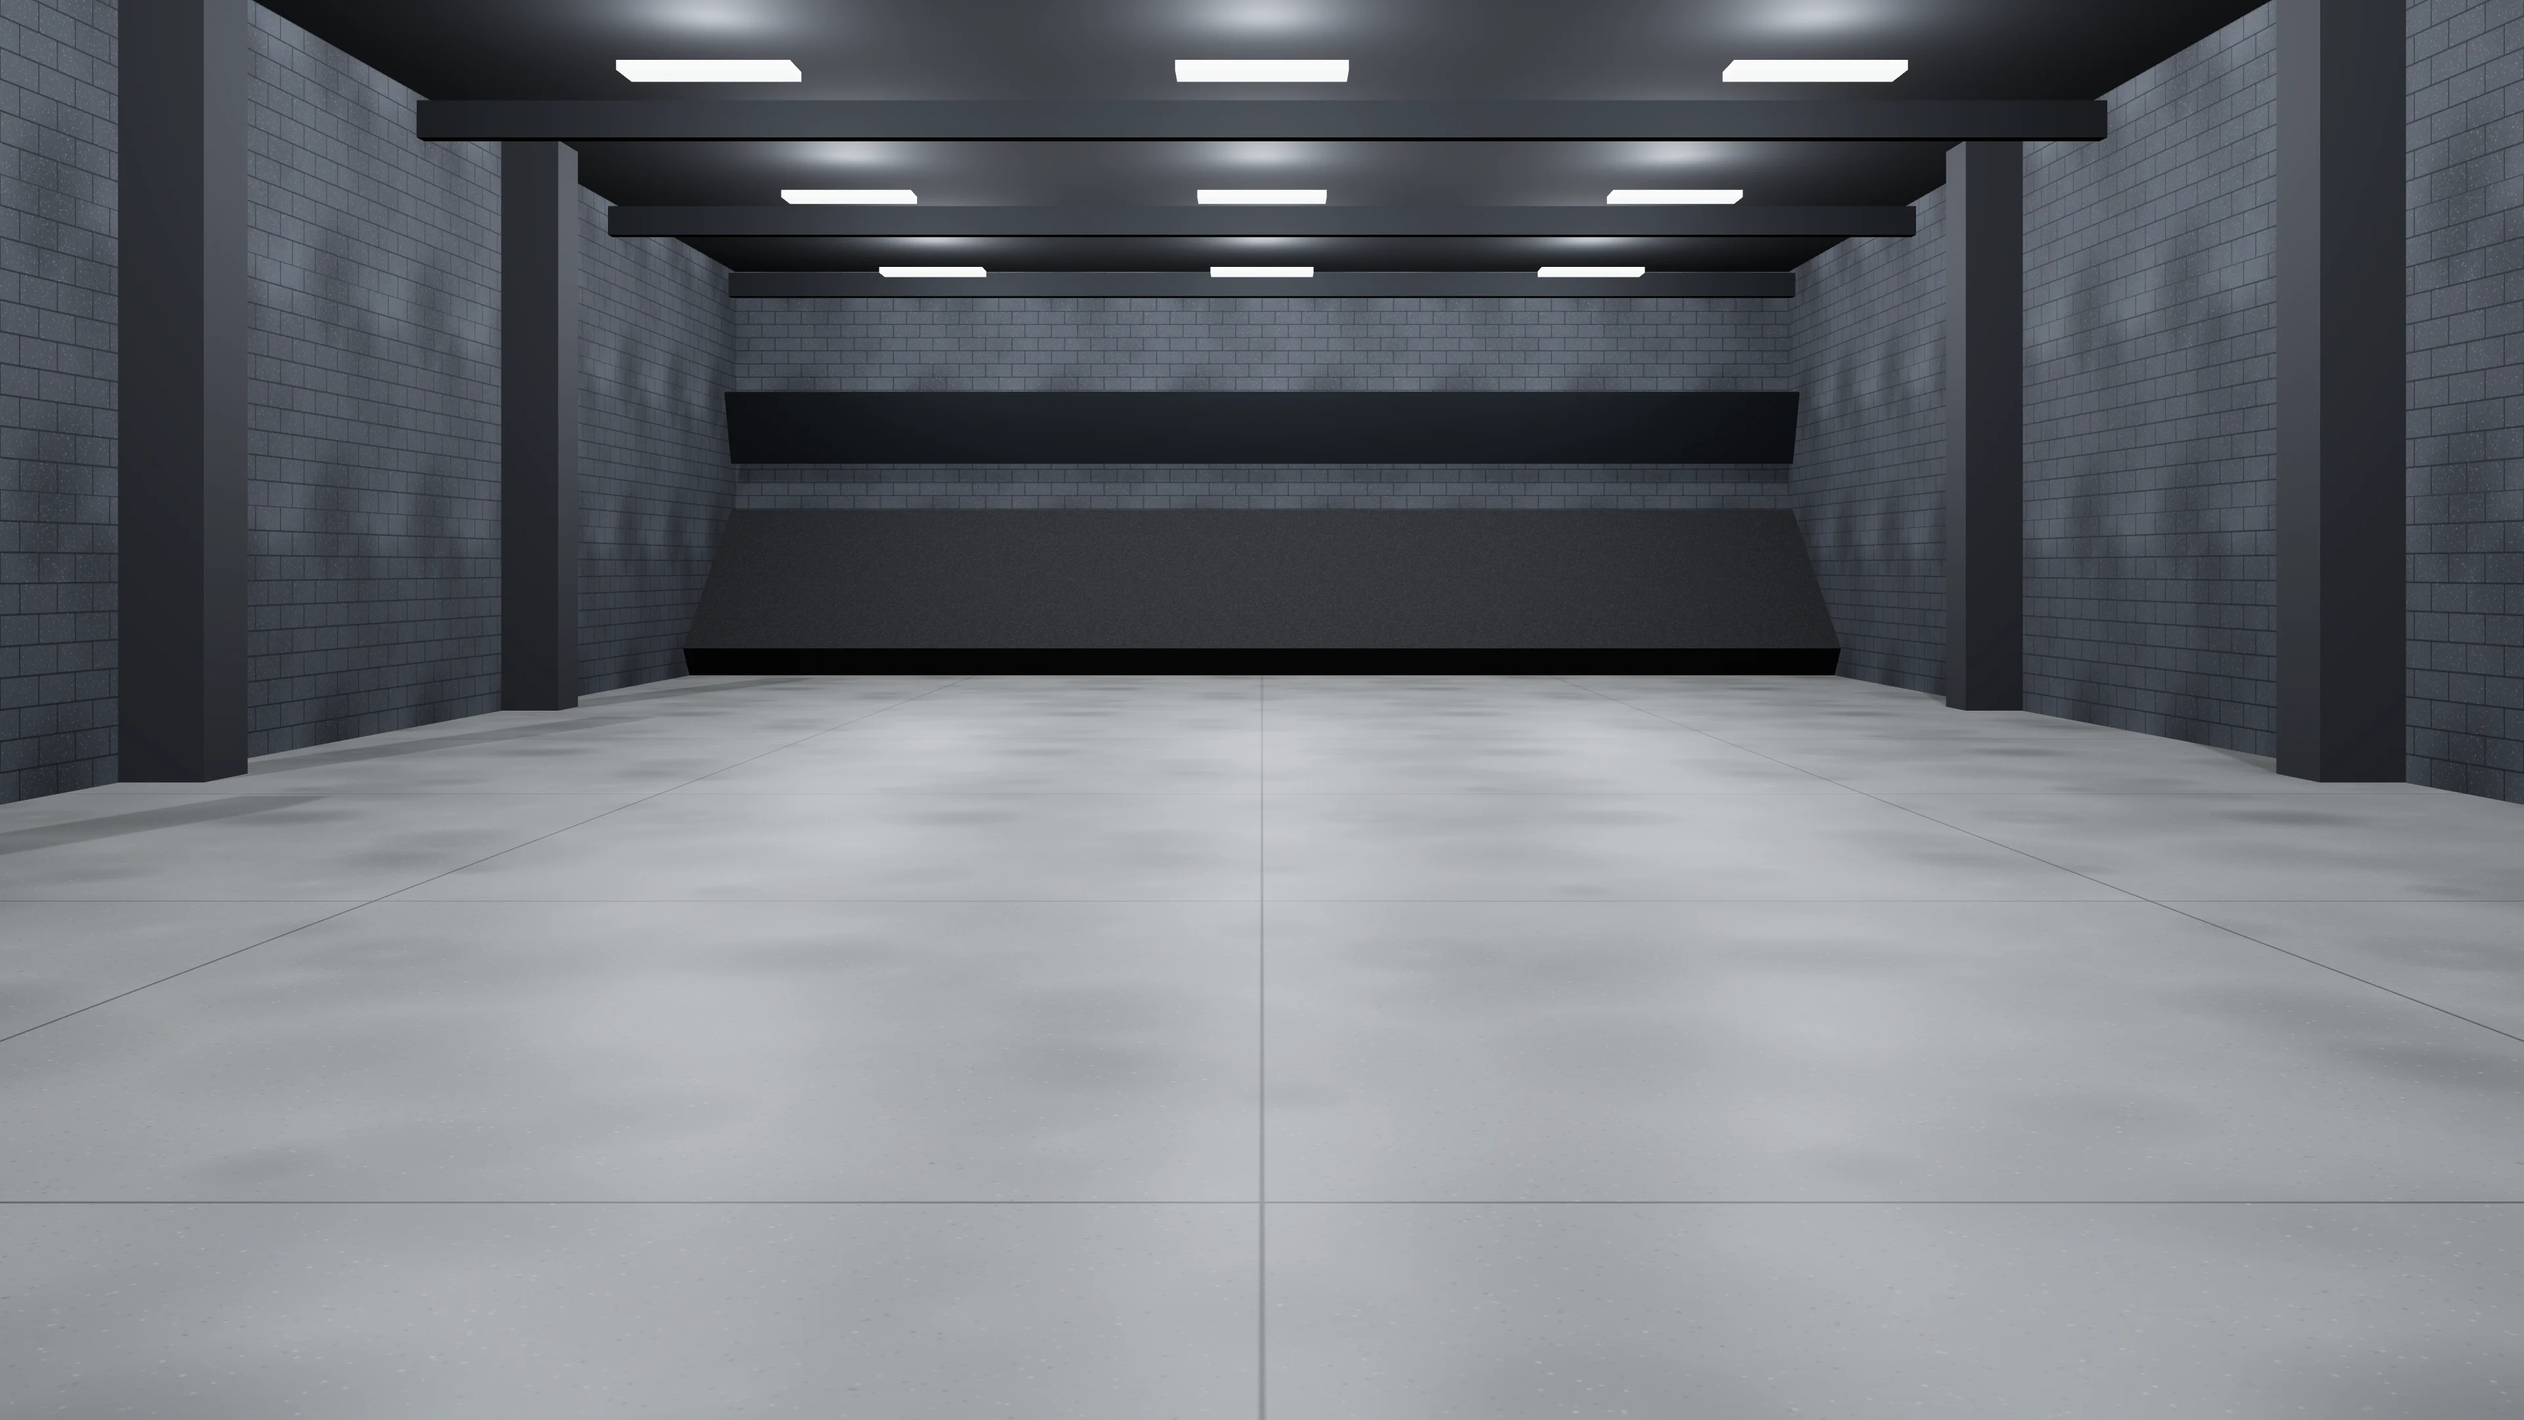
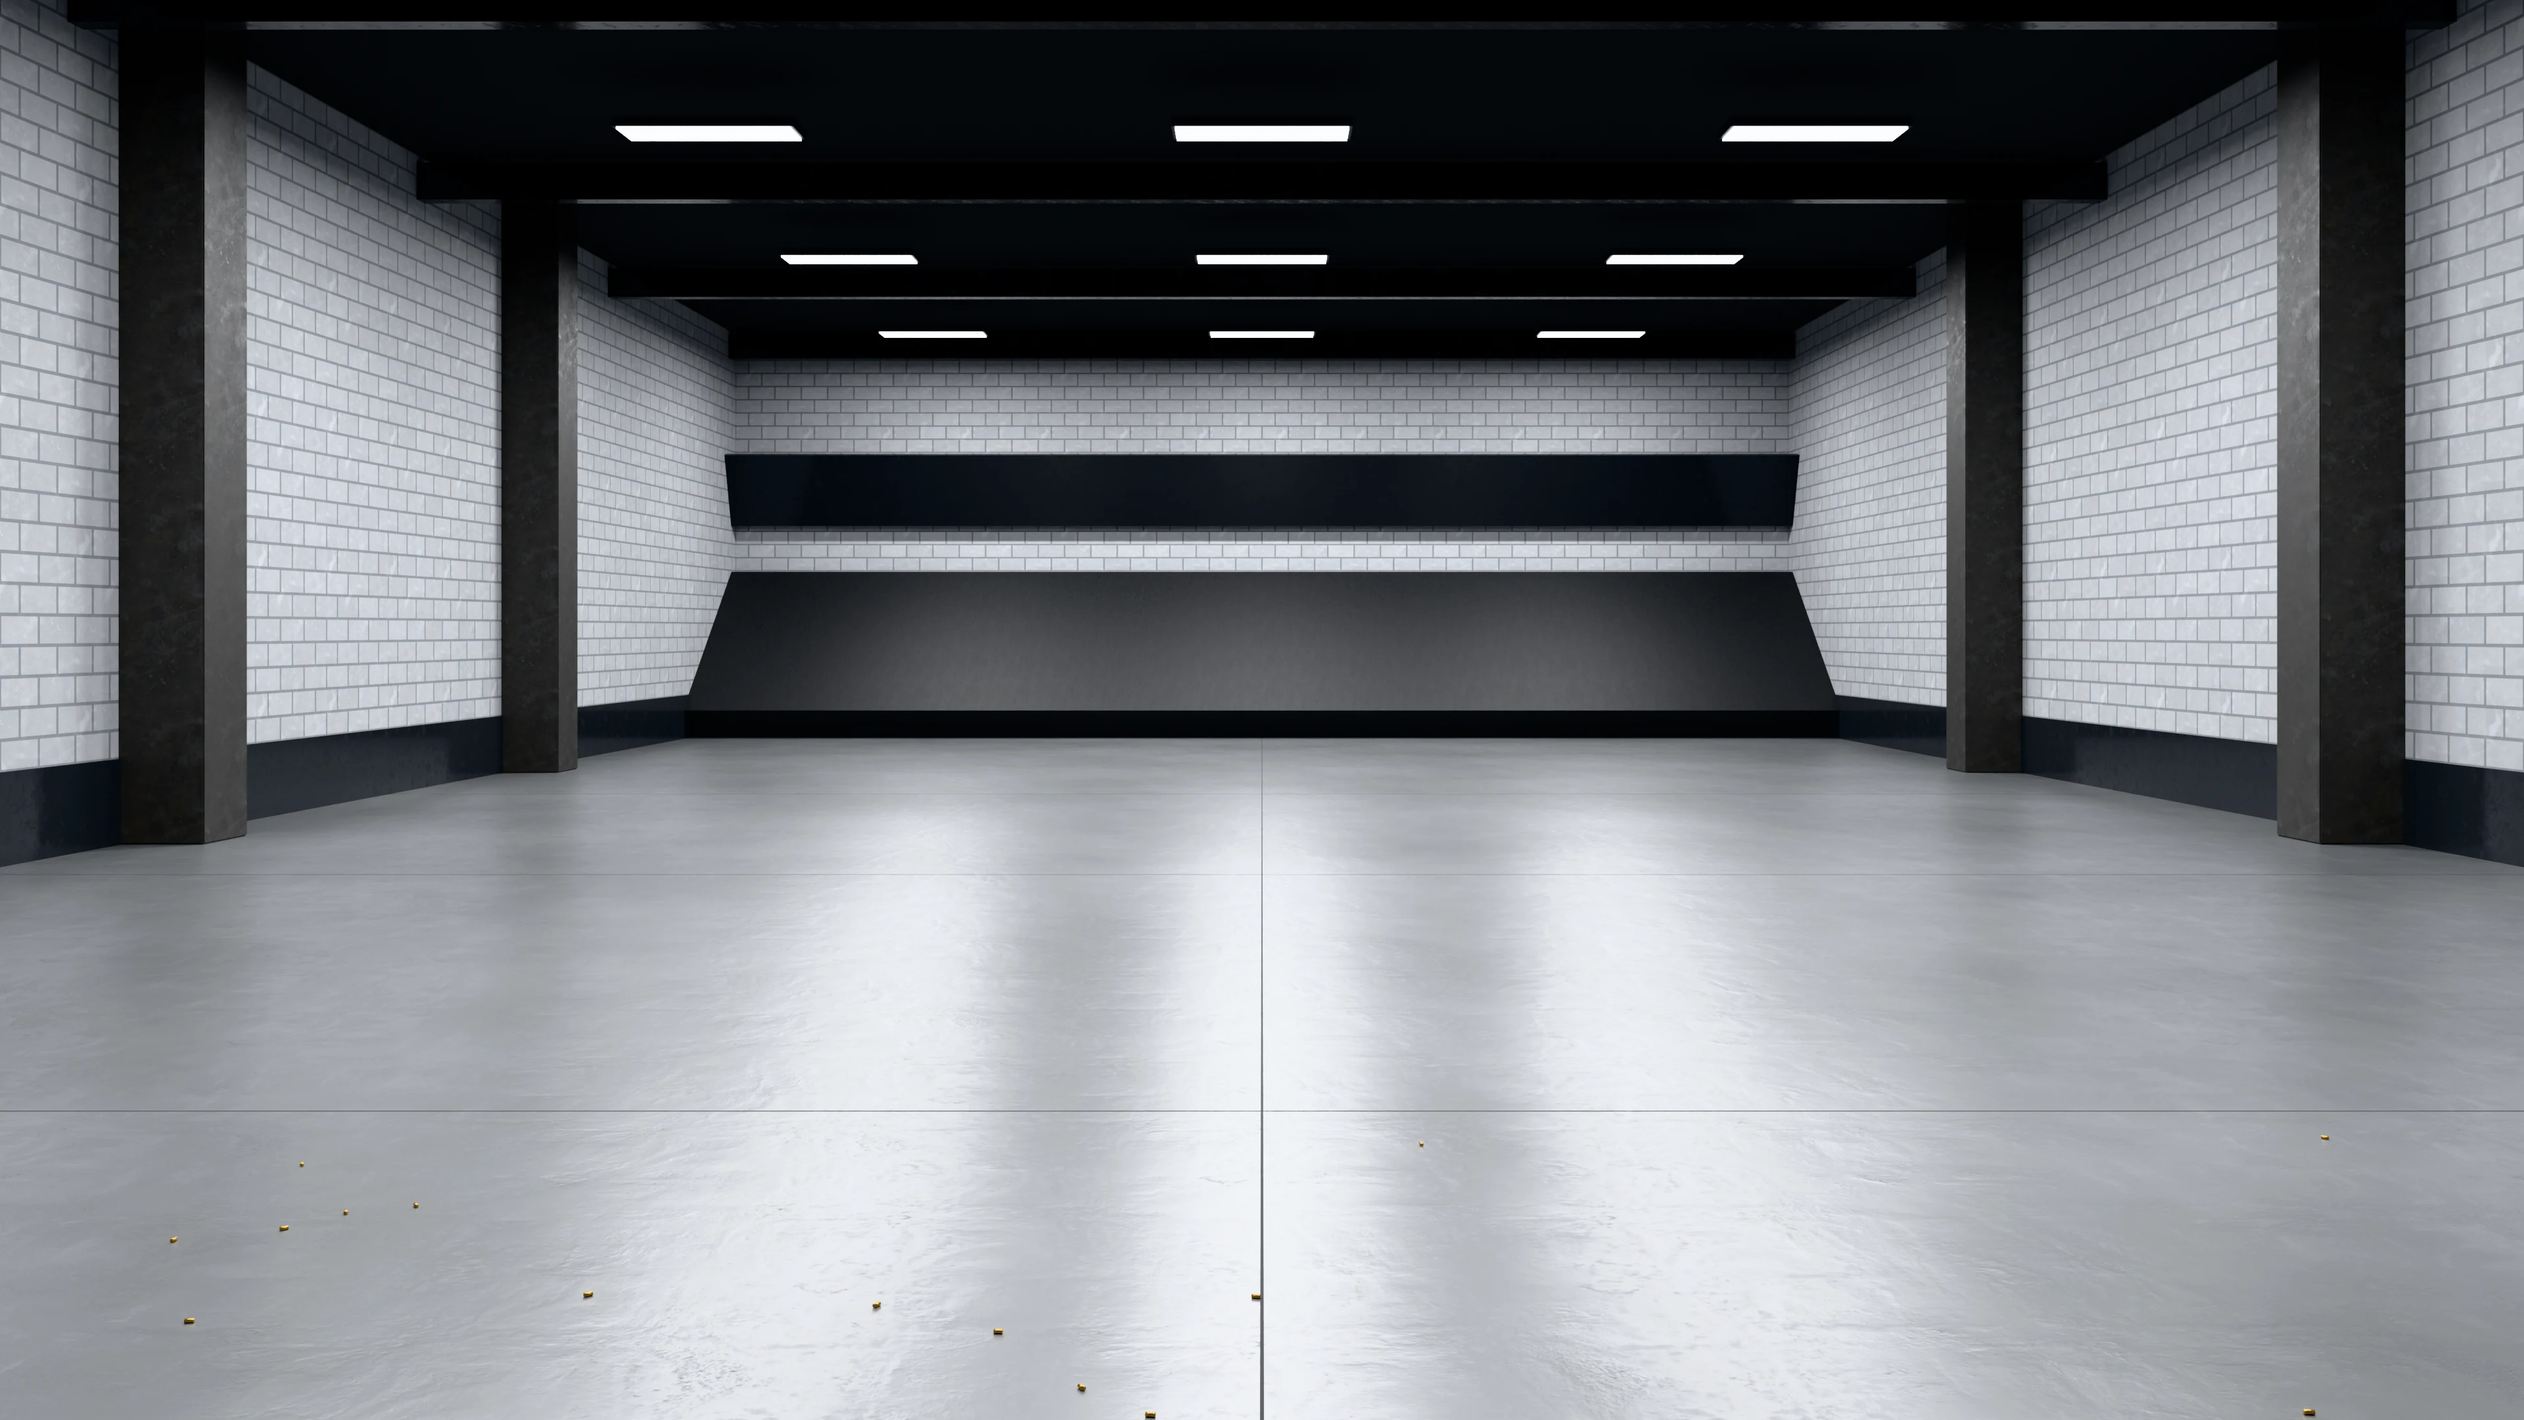
Indoor 01-04 in Blender gerendert

diff --git a/tools/plate-renderer/blender/scene.py b/tools/plate-renderer/blender/scene.py
@@ -819,57 +819,122 @@ def plate_camera(sc):
     camd.clip_end = 400
 
 
-def indoor_01():
-    W, D, H = W_ROOM, D_ROOM, H_ROOM
-    yc = D / 2 - 6
-    back = D - 6
-    world_hdri(0.08)
-    floor = pbr('floor', 'Concrete034', tile=1.8, tint='#7d7b78', rough_mul=0.66, normal=0.15, stains=0.3)
-    floor_plane('floor', W * 2, D, (0, yc, 0), floor)
-    # saw-cut joints in the concrete
-    joint = material('joint', '#2a2a29', rough=0.9)
-    plane('joint_c', 0.008, D, (0, yc, 0.0006), joint, rot=(math.pi / 2, 0, 0))
-    for y in (4, 10, 16, 22):
-        plane(f'joint_{y}', W * 2, 0.008, (0, y, 0.0006), joint, rot=(math.pi / 2, 0, 0))
-
-    # acoustic panels: fabric with panel seams (brick texture as seam pattern)
-    wall = bpy.data.materials.new('panels')
-    wall.use_nodes = True
-    N, L = wall.node_tree.nodes, wall.node_tree.links
+def grid_material(name, c1, c2, mortar, brick_w, row_h, mortar_size=0.012, offset=0.0, normal_img='Fabric030', normal_tile=0.33,
+                  normal=0.6, bump=0.4, rough=0.95, photo=None, photo_tile=1.5, emission=0.0, axes='xz', photo_mix=0.5):
+    """Panels / blocks / tiles: brick-texture grid with seams, optional photo texture in the faces."""
+    m = bpy.data.materials.new(name)
+    m.use_nodes = True
+    N, L = m.node_tree.nodes, m.node_tree.links
     b = N['Principled BSDF']
     tc = N.new('ShaderNodeTexCoord')
     br = N.new('ShaderNodeTexBrick')
-    br.offset = 0.0
-    br.inputs['Color1'].default_value = hex_rgba('#3f4042')
-    br.inputs['Color2'].default_value = hex_rgba('#3a3b3d')
-    br.inputs['Mortar'].default_value = hex_rgba('#1c1d1e')
+    br.offset = offset
+    br.inputs['Color1'].default_value = hex_rgba(c1)
+    br.inputs['Color2'].default_value = hex_rgba(c2)
+    br.inputs['Mortar'].default_value = hex_rgba(mortar)
     br.inputs['Scale'].default_value = 1.0
-    br.inputs['Mortar Size'].default_value = 0.012
-    br.inputs['Brick Width'].default_value = 1.2
-    br.inputs['Row Height'].default_value = 2.0
-    L.new(tc.outputs['Object'], br.inputs['Vector'])
-    L.new(br.outputs['Color'], b.inputs['Base Color'])
-    b.inputs['Roughness'].default_value = 0.95
-    fn = N.new('ShaderNodeTexImage')
-    fn.image = _img(os.path.join(TEX, 'Fabric030_normal.jpg'), True)
-    fn.projection = 'BOX'
-    mp = N.new('ShaderNodeMapping')
-    mp.inputs['Scale'].default_value = (3, 3, 3)
-    L.new(tc.outputs['Object'], mp.inputs['Vector'])
-    L.new(mp.outputs['Vector'], fn.inputs['Vector'])
-    nm = N.new('ShaderNodeNormalMap')
-    nm.inputs['Strength'].default_value = 0.6
-    L.new(fn.outputs['Color'], nm.inputs['Color'])
-    bump = N.new('ShaderNodeBump')
-    bump.inputs['Strength'].default_value = 0.4
-    bump.invert = True
-    L.new(br.outputs['Fac'], bump.inputs['Height'])
-    L.new(nm.outputs['Normal'], bump.inputs['Normal'])
-    L.new(bump.outputs['Normal'], b.inputs['Normal'])
+    br.inputs['Mortar Size'].default_value = mortar_size
+    br.inputs['Brick Width'].default_value = brick_w
+    br.inputs['Row Height'].default_value = row_h
+    # the brick grid runs in the wall's own plane (u along the wall, v up)
+    sep = N.new('ShaderNodeSeparateXYZ')
+    L.new(tc.outputs['Object'], sep.inputs['Vector'])
+    comb = N.new('ShaderNodeCombineXYZ')
+    L.new(sep.outputs[axes[0].upper()], comb.inputs['X'])
+    L.new(sep.outputs[axes[1].upper()], comb.inputs['Y'])
+    L.new(comb.outputs['Vector'], br.inputs['Vector'])
+    col = br.outputs['Color']
+    if photo:
+        mp2 = N.new('ShaderNodeMapping')
+        mp2.inputs['Scale'].default_value = (1 / photo_tile,) * 3
+        L.new(tc.outputs['Object'], mp2.inputs['Vector'])
+        ph = N.new('ShaderNodeTexImage')
+        ph.image = _img(os.path.join(TEX, f'{photo}_color.jpg'))
+        ph.projection = 'BOX'
+        ph.projection_blend = 0.2
+        L.new(mp2.outputs['Vector'], ph.inputs['Vector'])
+        gray = N.new('ShaderNodeRGBToBW')
+        L.new(ph.outputs['Color'], gray.inputs['Color'])
+        sc_ = N.new('ShaderNodeMath')
+        sc_.operation = 'MULTIPLY'
+        sc_.inputs[1].default_value = 2.0
+        L.new(gray.outputs['Val'], sc_.inputs[0])
+        mix = N.new('ShaderNodeMix')
+        mix.data_type = 'RGBA'
+        mix.blend_type = 'MULTIPLY'
+        mix.inputs['Factor'].default_value = photo_mix
+        L.new(col, mix.inputs['A'])
+        L.new(sc_.outputs['Value'], mix.inputs['B'])
+        col = mix.outputs['Result']
+    L.new(col, b.inputs['Base Color'])
+    if emission:
+        L.new(col, b.inputs['Emission Color'])
+        b.inputs['Emission Strength'].default_value = emission
+    b.inputs['Roughness'].default_value = rough
+    nrm = None
+    if normal_img:
+        fn = N.new('ShaderNodeTexImage')
+        fn.image = _img(os.path.join(TEX, f'{normal_img}_normal.jpg'), True)
+        fn.projection = 'BOX'
+        mp = N.new('ShaderNodeMapping')
+        mp.inputs['Scale'].default_value = (1 / normal_tile,) * 3
+        L.new(tc.outputs['Object'], mp.inputs['Vector'])
+        L.new(mp.outputs['Vector'], fn.inputs['Vector'])
+        nm = N.new('ShaderNodeNormalMap')
+        nm.inputs['Strength'].default_value = normal
+        L.new(fn.outputs['Color'], nm.inputs['Color'])
+        nrm = nm.outputs['Normal']
+    bp = N.new('ShaderNodeBump')
+    bp.inputs['Strength'].default_value = bump
+    bp.invert = True
+    L.new(br.outputs['Fac'], bp.inputs['Height'])
+    if nrm:
+        L.new(nrm, bp.inputs['Normal'])
+    L.new(bp.outputs['Normal'], b.inputs['Normal'])
+    return m
 
-    box('back_wall', (W * 2, 0.1, H), (0, back + 0.05, H / 2), wall)
+
+def brass(count=40, spread=1.0, seed=9):
+    """Spent 9 mm brass lying around the shooting position."""
+    mat = material('brass', '#c99d48', rough=0.32, metal=1.0)
+    rnd = random.Random(seed)
+    for i in range(count):
+        y = -0.8 + rnd.random() ** 1.8 * 4.5
+        x = (rnd.random() - 0.5) * (3 + y * 0.9) * spread
+        cylinder('case', 0.0048, 0.019, (x, y, 0.0048), (math.pi / 2, 0, rnd.random() * math.tau), mat, verts=12)
+
+
+def floor_joints(W, D, yc, ys, color='#2a2a29'):
+    joint = material('joint', color, rough=0.9)
+    plane('joint_c', 0.008, D, (0, yc, 0.0006), joint, rot=(math.pi / 2, 0, 0))
+    for y in ys:
+        plane(f'joint_{y}', W, 0.008, (0, y, 0.0006), joint, rot=(math.pi / 2, 0, 0))
+
+
+INDOOR_HALL = {
+    # dark fabric acoustic panels, warm-neutral high bays
+    'indoor_01': dict(wall=lambda ax: grid_material('panels', '#3f4042', '#3a3b3d', '#1c1d1e', 1.2, 2.0, axes=ax), floor_tint='#7d7b78', light='#f7f5f0', power=340),
+    # light grey concrete block, cooler and brighter LED bay
+    'indoor_02': dict(
+        wall=lambda ax: grid_material('blocks', '#aeb0b2', '#a6a8aa', '#7f8285', 0.4, 0.2, mortar_size=0.012, offset=0.5, normal_img='Concrete036',
+                                      normal_tile=1.0, normal=0.4, bump=0.35, rough=0.9, photo='Concrete036', photo_tile=1.2, axes=ax, photo_mix=0.35),
+        floor_tint='#8d8f90', light='#f3f5fa', power=380),
+}
+
+
+def indoor_hall(pid):
+    style = INDOOR_HALL[pid]
+    W, D, H = 16, 34, 6
+    yc = D / 2 - 6
+    back = D - 6
+    world_hdri(0.08)
+    floor = pbr('floor', 'Concrete034', tile=1.8, tint=style['floor_tint'], rough_mul=0.66, normal=0.15, stains=0.3)
+    floor_plane('floor', W * 2, D, (0, yc, 0), floor)
+    floor_joints(W * 2, D, yc, (4, 10, 16, 22))
+    box('back_wall', (W * 2, 0.1, H), (0, back + 0.05, H / 2), style['wall']('xz'))
+    side = style['wall']('yz')
     for s in (-1, 1):
-        box('side_wall', (0.1, D, H), (s * (W / 2 + 0.05), yc, H / 2), wall)
+        box('side_wall', (0.1, D, H), (s * (W / 2 + 0.05), yc, H / 2), side)
     steel = pbr('steel', 'PaintedMetal004', tile=0.8, color=False, tint='#3a3d40', rough_mul=0.7, normal=0.3, metal=0.6)
     dark_steel = pbr('dark_steel', 'PaintedMetal004', tile=0.8, color=False, tint='#202224', rough_mul=0.7, normal=0.3, metal=0.5)
     for s in (-1, 1):
@@ -878,34 +943,88 @@ def indoor_01():
     for s in (-1, 1):
         for y in (5, 12, 19):
             box('column', (0.6, 0.6, H), (s * (W / 2 - 0.3), y, H / 2), column, bevel=0.01)
-    # backstop: rubber granulate berm + steel baffle
     rubber = pbr('rubber', 'Rubber001', tile=0.7, tint='#8a8a8a', rough_mul=1.0, normal=0.8)
     berm = box('berm', (W, 0.6, 3.2), (0, back - 1.3, 1.15), rubber)
     berm.rotation_euler = (-0.9, 0, 0)
     baffle = box('baffle', (W, 0.08, 1.1), (0, back - 0.4, 3.6), dark_steel)
     baffle.rotation_euler = (0.35, 0, 0)
-    # ceiling, trusses, lights
     ceiling = material('ceiling', '#111213', rough=1.0)
     box('ceiling', (W * 2, D, 0.1), (0, yc, H + 0.05), ceiling)
     for y in (3, 8.5, 14, 19.5, 25):
         box('truss', (W, 0.18, 0.35), (0, y + 2.7, H - 0.25), dark_steel)
-    fixture = material('fixture', '#ffffff', rough=0.3, emission='#f7f5f0', emission_strength=12)
+    fixture = material('fixture', '#ffffff', rough=0.3, emission=style['light'], emission_strength=12)
     housing = material('housing', '#2b2c2e', rough=0.5, metal=0.6)
     for x in (-4.5, 0, 4.5):
         for y in (3, 8.5, 14, 19.5, 25):
             box('housing', (1.46, 0.46, 0.08), (x, y, H - 0.41), housing)
             box('fixture', (1.4, 0.4, 0.02), (x, y, H - 0.455), fixture)
-            area_light('bay', 1.4, (x, y, H - 0.47), 340, '#f7f5f0', size_y=0.4)
-    # spent brass near the shooting position
-    brass = material('brass', '#c99d48', rough=0.32, metal=1.0)
-    rnd = random.Random(9)
-    for i in range(40):
-        y = -0.8 + rnd.random() ** 1.8 * 4.5
-        x = (rnd.random() - 0.5) * (3 + y * 0.9)
-        cylinder('case', 0.0048, 0.019, (x, y, 0.0048), (math.pi / 2, 0, rnd.random() * math.tau), brass, verts=12)
+            area_light('bay', 1.4, (x, y, H - 0.47), style['power'], style['light'], size_y=0.4)
+    brass()
 
 
-PLATES = {'indoor_01': indoor_01}
+def indoor_tunnel():
+    """Indoor 03: long bright lane, white acoustic tiles on walls + ceiling, LED strips, green floor."""
+    W, D, H = 8, 40, 3.6
+    y0, back = -4, 34
+    yc = y0 + D / 2
+    world_hdri(0.1)
+    floor = pbr('green_floor', 'Rubber004', tile=0.9, color=False, tint='#3a6448', rough=0.6, normal=0.25)
+    floor_plane('floor', W, D, (0, yc, 0), floor)
+    tile = lambda ax: grid_material('tiles', '#d9dcdb', '#d4d7d6', '#a9aeac', 0.6, 0.6, mortar_size=0.01, normal=0.4, bump=0.3, axes=ax)
+    side, ceil = tile('yz'), tile('xy')
+    for s in (-1, 1):
+        box('wall', (0.1, D, H), (s * (W / 2 + 0.05), yc, H / 2), side)
+    box('ceiling', (W, D, 0.1), (0, yc, H + 0.05), ceil)
+    tiles = tile('xz')
+    strip = material('strip', '#ffffff', rough=0.3, emission='#f5f8ff', emission_strength=14)
+    for i in range(11):
+        y = 1 + i * 3
+        box('strip', (W * 0.45, 0.16, 0.04), (0, y, H - 0.02), strip)
+        area_light('strip_l', W * 0.45, (0, y, H - 0.05), 150, '#f5f8ff', size_y=0.16)
+    # backstop: lit white wall with alternating teal / white baffles, steel trap below, tiled header
+    backwall = material('backwall', '#f2f4f3', rough=0.8, emission='#ffffff', emission_strength=0.6)
+    box('backwall', (W, 0.1, H), (0, back + 0.65, H / 2), backwall)
+    teal = material('teal', '#2e8a80', rough=0.7)
+    white = material('baffle_white', '#e3e8e6', rough=0.7)
+    for i in range(9):
+        box('baffle', (0.5, 0.08, 2.2), (-2.4 + i * 0.6, back + 0.4, 1.6), white if i % 2 else teal)
+    trap = pbr('trap', 'PaintedMetal004', tile=0.8, color=False, tint='#2a2d2e', rough=0.5, normal=0.3, metal=0.4)
+    box('trap', (W, 0.6, 0.56), (0, back, 0.28), trap)
+    box('header', (W, 0.1, 0.8), (0, back - 0.6, H - 0.5), tiles)
+    brass(30, 0.6)
+
+
+def indoor_beams():
+    """Indoor 04: light concrete floor, dark speckled walls, bright ceiling with beams and spots."""
+    W, D, H = 14, 38, 4.6
+    y0, back = -4, 32
+    yc = y0 + D / 2
+    world_hdri(0.1)
+    floor = pbr('floor', 'Concrete034', tile=1.8, tint='#b9b7b2', rough_mul=0.6, normal=0.15, stains=0.25)
+    floor_plane('floor', W, D, (0, yc, 0), floor)
+    floor_joints(W, D, yc, (3, 9, 15, 21, 27))
+    walls = pbr('walls', 'Concrete036', tile=1.6, tint='#6a6d71', rough_mul=1.0, normal=0.6)
+    for s in (-1, 1):
+        box('wall', (0.1, D, H), (s * (W / 2 + 0.05), yc, H / 2), walls)
+    box('back', (W, 0.1, H), (0, back + 0.05, H / 2), walls)
+    ceiling = material('ceiling', '#f1f0ec', rough=0.8)
+    box('ceiling', (W, D, 0.1), (0, yc, H + 0.05), ceiling)
+    beam = material('beam', '#e6e5e1', rough=0.6)
+    spot = material('spot', '#ffffff', rough=0.3, emission='#fff6e8', emission_strength=16)
+    for x in (-4.8, -1.6, 1.6, 4.8):
+        box('beam', (0.55, D, 0.7), (x, yc, H - 0.35), beam)
+        for y in (2, 7, 12, 17, 22, 27):
+            box('spot', (0.3, 0.3, 0.05), (x, y, H - 0.72), spot)
+            area_light('spot_l', 0.3, (x, y, H - 0.75), 110, '#fff6e8')
+    brass(40)
+
+
+PLATES = {
+    'indoor_01': lambda: indoor_hall('indoor_01'),
+    'indoor_02': lambda: indoor_hall('indoor_02'),
+    'indoor_03': indoor_tunnel,
+    'indoor_04': indoor_beams,
+}
 
 
 def render_plate(pid):
